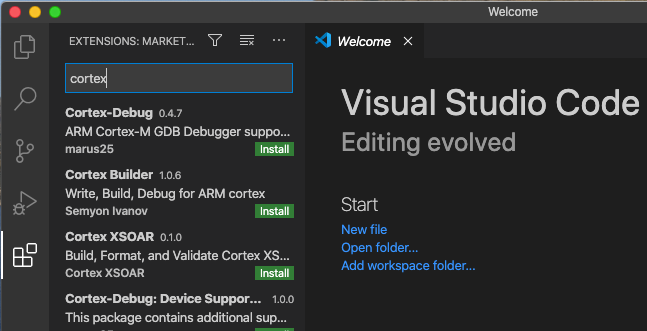
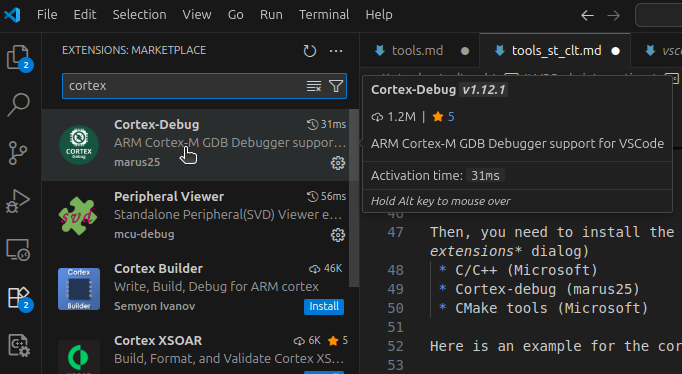
update tools install with STM32-CLT

diff --git a/doc/vscode.md b/doc/vscode.md
@@ -1,69 +1,21 @@
 # VSCode integration
 
-This *Howto* explains how to configure Microsoft VSCode for Cortex ARM development.
+![logo](img/vscode_logo.svg) 
 
-Sources: Some parts are based on [this web site](https://hbfsrobotics.com/blog/configuring-vs-code-arm-development-stm32cubemx) that uses ST CubeMX, VSCode and Makefiles on Windows.
-
-## Prerequisites
-
-Here, we use:
- * a cross-compiler for the cortex ARM target (`arm-none-eabi-gcc`)
- * a tool to handle the project (compilation/flash recipes): `cmake` (+`Ninja` on Windows)
- * a tool to upload and debug on the target: `st-link` (+its driver on Windows).
-
-You can find [here](./tools.md) some information to install these tools.
-
-**Important note**:
-All these tools should be installed and the environment path updated! You can test: open a terminal and type: `arm-none-eabi-gcc --version`. The answer should be sth like:
-```
--> % arm-none-eabi-gcc --version
-arm-none-eabi-gcc (GNU Arm Embedded Toolchain 9-2020-q2-update) 9.3.1 20200408 (release)
-Copyright (C) 2019 Free Software Foundation, Inc.
-This is free software; see the source for copying conditions.  There is NO
-warranty; not even for MERCHANTABILITY or FITNESS FOR A PARTICULAR PURPOSE.
-```
-
-## Configuration
-![logo](img/vscode_logo.svg)
-
-### Start
-
-The first time VSCode is started (on Mac, no extension):
-![](img/vscode_start.png)
-
-On Mac, you should have some dialog boxes like this one to have access to the file system
-
-![](img/vscode_fileAccess.png)
-
-(in french on D102, This means: vscode wants to access the files in your Documents folder)
-
-### Extensions
-
-We first need to install some extensions. You can click on the *Extension* icon on the left side:
-
-![](img/vscodeExtensions.png)
-
-Then, you need to install the following extensions (using the *search extensions* dialog)
- * C/C++ (Microsoft)
- * Cortex-debug (marus25)
- * CMake tools (Microsoft)
-
-Here is an example for the cortex extension:
-
-![](img/vscodeExtensionCortex.png)
+Installation (extensions, settings) can be found [here](./tools_st_clt.md). 
 
 ## Open a project
 
-To open a project, simply open the appropriate folder: `File -> Open Folder`
+To open a project, simply open the appropriate **folder**: `File -> Open Folder`.
 
-There may have some messages. One of them is related to cmake: VSCode can use the CMake recipes to guess the project configuration (include paths, …). However, I get only a partial configuration. It's safer here to use the configuration provided, and *not use the cmake extension*!
+You should open the **FOLDER**, not only the `main.c` file!!
 
 ![](img/vscodeOpenProject.png)
 
 You can see that there is a `.vscode` folder (hidden on Linux/Mac) that contains the full configuration:
- * `c_cpp_properties.json` give some information about the configuration of the C/C++ parts. The intelliSense mode for auto-completion needs it. It defines a configuration named `STM32 ARM`
+ * possibly `c_cpp_properties.json` give some information about the configuration of the C/C++ parts. The intelliSense mode for auto-completion needs it. It defines a configuration named `STM32 ARM`
  * `launch.json` get some information on how to use st-link when debugging.
- * `settings.json` just tells that CMake will use a cross compiler.
+ * possibly `settings.json` just tells that CMake will use a cross compiler.
 
 ## Compilation
 

diff --git a/doc/tools_st_clt.md b/doc/tools_st_clt.md
@@ -1,0 +1,62 @@
+The target is a ST Nucleo32 board STM32F303K8.
+
+Here, we use:
+ * a cross-compiler for the cortex ARM target (`arm-none-eabi-gcc`)
+ * a tool to upload and debug on the target: `st-link`
+ * a tool to handle the project (compilation/flash recipes): `cmake` (+Ninja on Windows)
+ * an IDE (QtCreator, Eclipse, VSCode, …), or a lightweight editor (Vim, gedit, …)
+
+The compiler suite is `arm-none-eabi-gcc`, the debugger `arm-none-eabi-gdb` (that can be used in command line interface, or through a gui like QtCreator or VSCode). The name stands for:
+ * `arm`: the processor target
+ * `none`: the operating system. Here `none` means that there is no operating system (baremetal)
+ * `eabi` is Embedded Application Binary Interface and defines the rules to interact with other binaries (how to give the function arguments in the asm for instance)
+ * `gcc` is the name for the `GNU Compiler collection`, a widely uses compiler.
+
+ # CLT - Command Line Tools
+
+ ST provide an all-in-one tool to install all this stuff [here](https://www.st.com/en/development-tools/stm32cubeclt.html). An account is required to download the package.
+
+From ST, the STM32CubeCLT toolset includes:
+ * GNU C/C++ for Arm® toolchain executables such as arm-none-abi-gcc (compiler), arm-none-abi-nm (symbol viewer), and many more
+ * GDB debugger client and server
+ * STM32CubeProgrammer (STM32CubeProg) utility
+ * System view descriptor files (.SVD) for the entire STM32 MCU portfolio
+ * Map file associating STM32 MCUs and MCU development boards to the appropriate SVD
+
+# VSCode Installation
+
+you first need to install VSCode (from [here](https://code.visualstudio.com/download)). 
+
+## Extensions
+
+We first need to install some extensions. You can click on the *Extension* icon on the left side:
+
+![](img/vscodeExtensions.png)
+
+Then, you need to install the following extensions (using the *search extensions* dialog)
+ * C/C++ (Microsoft)
+ * C/C++ Extension Pack (Microsoft)
+ * Cortex-Debug (marus25)
+ * CMake tools (Microsoft)
+ * vscode-pdf (tomoki1207), not required, but useful to show lab text, datasheets, …
+
+Here is an example for the cortex extension:
+
+![](img/vscodeExtensionCortex.png)
+
+## Specific configuration for *STM32 CLT*
+
+If you have installed the CLT from ST on Windows, you have to update the stm32CubeProgrammer path (this tool is not installed at the same location as with STM32 Cube!!!):
+ * open the settings dialog `File -> Preferences -> settings`, or `Ctrl+,`
+ * search for `stm32cube`:
+
+![](img/vscodeSettingsSTM32CubeProg.png)
+
+ * click to `Edit in settings.json`
+
+![](img/vscodeSettingsSTM32CubeProgJson.png)
+
+add the line: (note that the `\` is double printed!)
+```
+    "cortex-debug.stm32cubeprogrammer": "C:\\ST\\STM32CubeCLT_1.19.0\\STM32CubeProgrammer\\bin",
+```

diff --git a/doc/tools.md b/doc/tools.md
@@ -1,3 +1,6 @@
+# **THIS IS AN OUTDATED VERSION!!** 
+# **ST CLT (COMMAND LINE TOOLS) PROVIDE AS FULL INSTALLATION! DOC [HERE](./tools_st_clt.md)** 
+
 # Required tools: Cross-compiler, CMake, ST-Link
 
 The target is a ST Nucleo32 board STM32F303K8.
@@ -15,6 +18,7 @@ The compiler suite is `arm-none-eabi-gcc`, the debugger `arm-none-eabi-gdb` (tha
  * `gcc` is the name for the `GNU Compiler collection`, a widely uses compiler.
 
  Here are some tips and links to install these tools on Linux, MacOS and Windows.
+
 
 # Linux
 On Linux (Debian/Ubuntu flavor), you should install:
